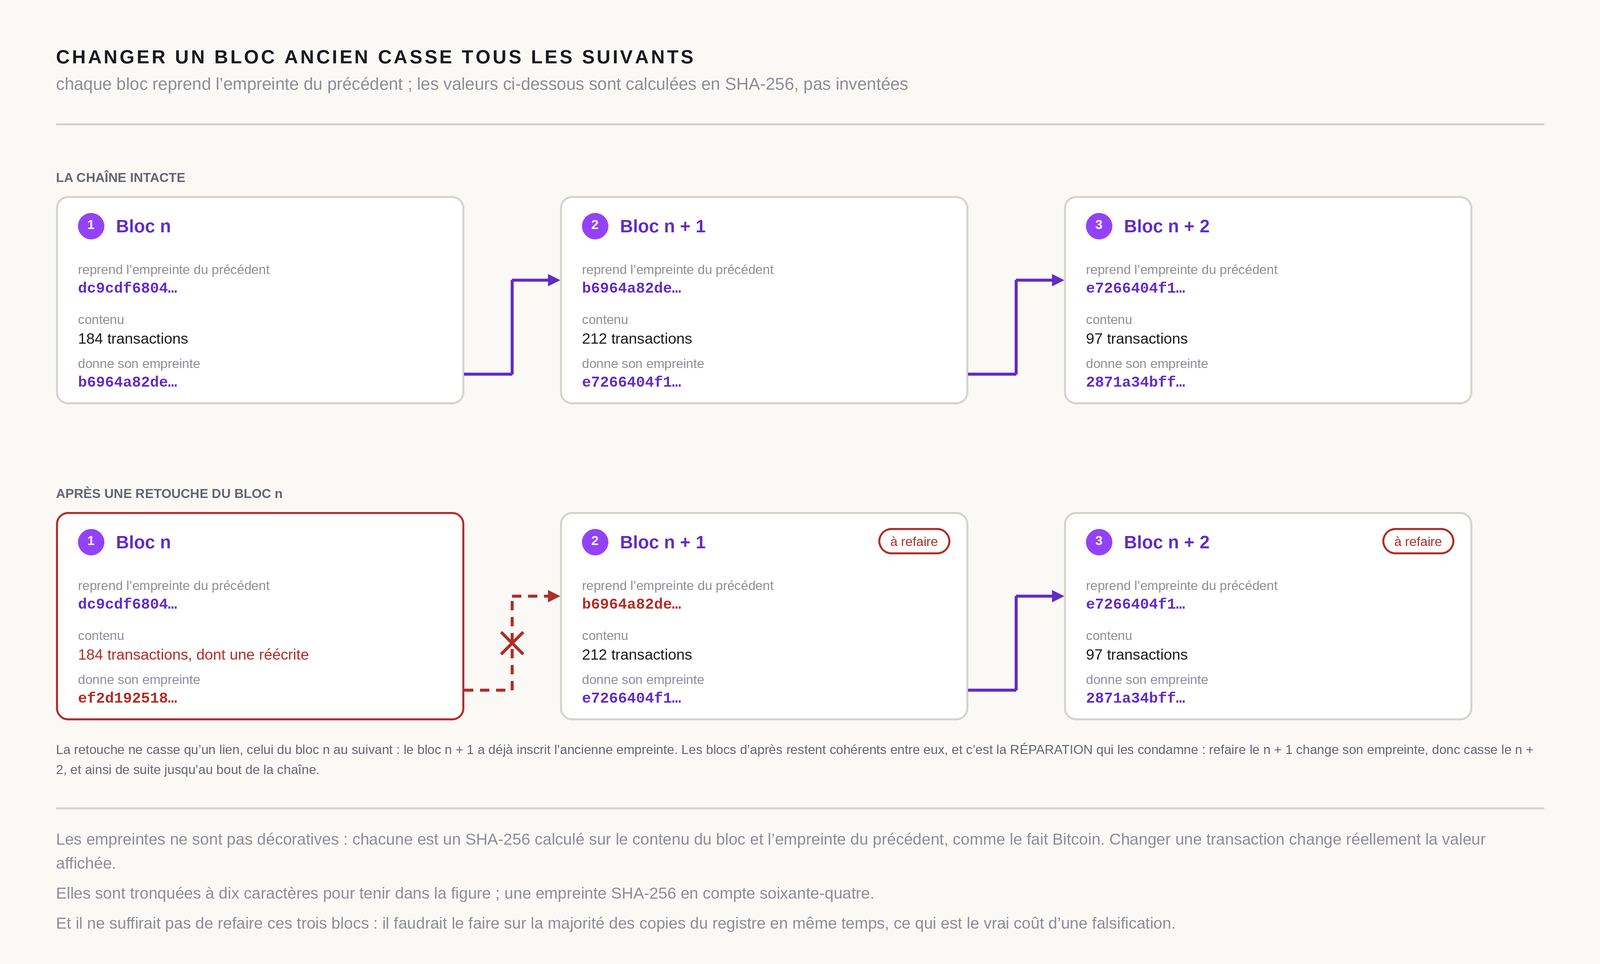
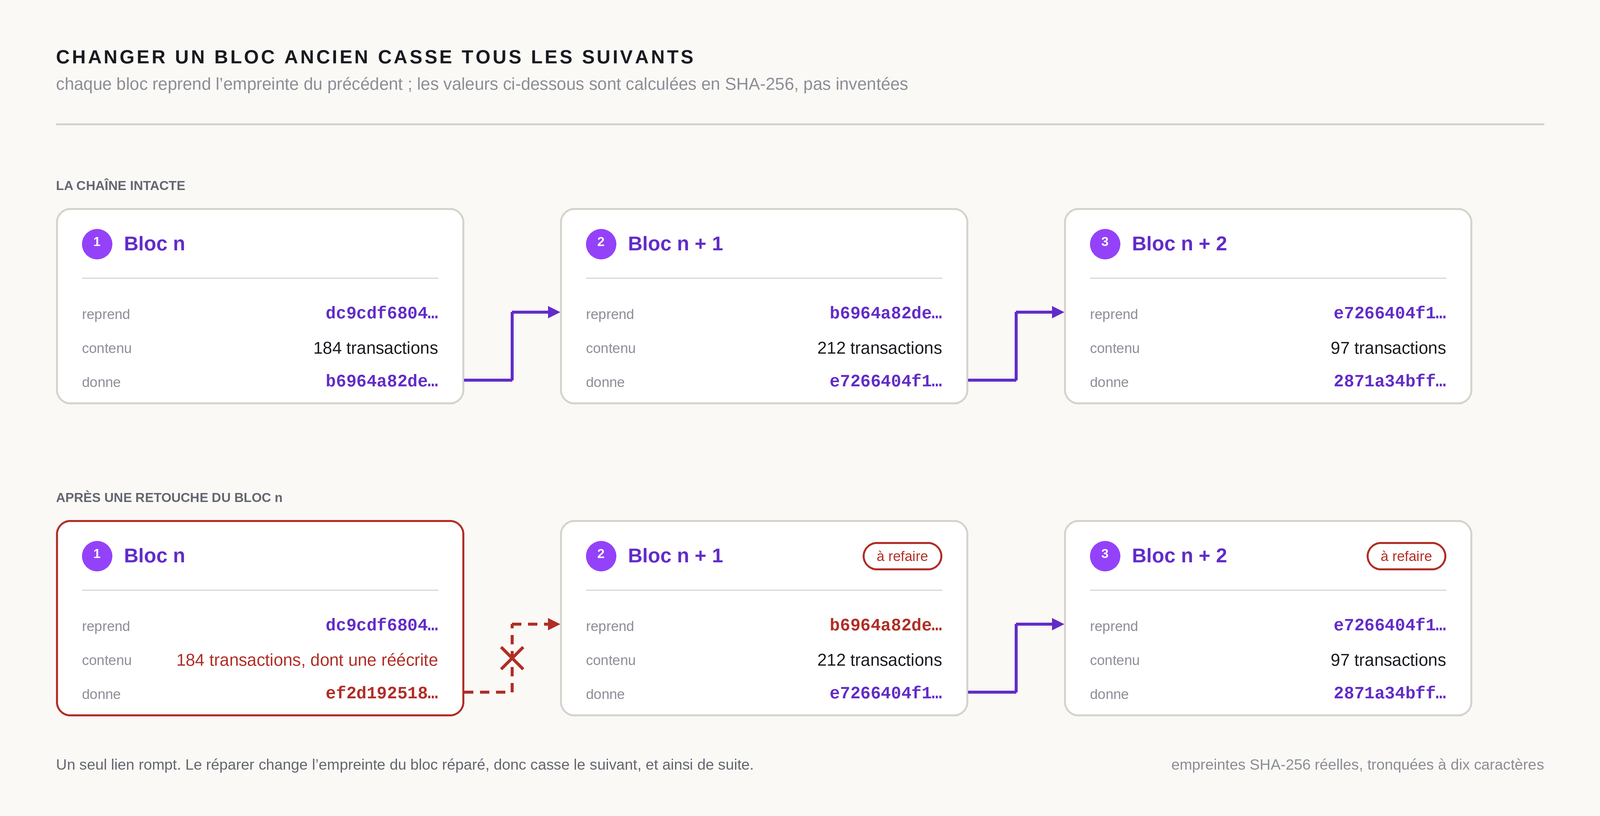
IMAGE 2 : la figure redevient une image
Trop de traits, trop de petit texte sous le visuel. Le client a raison :
je posais mes notes de fabrication sur l'image au lieu de les laisser dans
ce fichier et dans la légende de l'article.

  - un libellé et sa valeur sur la MÊME ligne, à gauche et à droite : trois
    lignes par carte au lieu de six, dont trois qui étaient en petit gris ;
  - les libellés raccourcis à un mot, « reprend », « contenu », « donne » ;
  - la note de quatre lignes et les trois paragraphes de pied remplacés par
    une seule ligne, plus la mention de provenance des empreintes alignée à
    droite ;
  - corps remontés : blocs à 20, valeurs à 17, contenus à 17.

De 964 à 816 pixels de haut, et de 102 à 70 Ko. La carte se lit d'un coup
d'oeil au lieu de se lire comme un paragraphe encadré.

Claude-Session: https://claude.ai/code/session_015un2t2xRvThoKm9jAu6CXK

diff --git a/article-bitcoin/chaine_blocs.py b/article-bitcoin/chaine_blocs.py
@@ -78,15 +78,15 @@ POLICES = {
     "titre": (C.POLICE_G, 19, "bold"),
     "sous": (C.POLICE_R, 17, "normal"),
     "rangee": (C.POLICE_G, 13, "bold"),
-    "bloc": (C.POLICE_G, 18, "bold"),
-    "champ": (C.POLICE_R, 13, "normal"),
+    "bloc": (C.POLICE_G, 20, "bold"),
+    "champ": (C.POLICE_R, 14, "normal"),
     "valeur": (C.POLICE_G, 15, "bold"),
-    "contenu": (C.POLICE_R, 15, "normal"),
-    "note": (C.POLICE_R, 13, "normal"),
+    "contenu": (C.POLICE_R, 17, "normal"),
+    "note": (C.POLICE_R, 15, "normal"),
     "pied": (C.POLICE_R, 16, "normal"),
 }
 MONO = "/usr/share/fonts/truetype/liberation/LiberationMono-Bold.ttf"
-POLICES["valeur"] = (MONO, 15, "bold")
+POLICES["valeur"] = (MONO, 17, "bold")
 FAMILLE_SVG = "Liberation Sans, Arial, Helvetica, sans-serif"
 FAMILLE_MONO = "Liberation Mono, Consolas, monospace"
 
@@ -96,8 +96,8 @@ SOUS = ("chaque bloc reprend l’empreinte du précédent ; les valeurs "
 
 LARGEUR_BLOC = 408
 ECART = 96
-Y_RANGEE = (196, 512)
-HAUTEUR_BLOC = 208
+Y_RANGEE = (208, 520)
+HAUTEUR_BLOC = 196
 
 
 def empreinte(precedent, contenu):
@@ -148,12 +148,14 @@ def polygone(couche, points, teinte):
     return {"quoi": "polygone", "couche": couche, "pts": points, "t": teinte}
 
 
-def texte(couche, xy, contenu, police, teinte, tracking=0.0, centre=False):
+def texte(couche, xy, contenu, police, teinte, tracking=0.0, centre=False,
+          droite=False):
     for c, nom in (("—", "cadratin"), ("–", "demi-cadratin")):
         if c in contenu:
             raise SystemExit("%s dans « %s »" % (nom, contenu[:60]))
     return {"quoi": "texte", "couche": couche, "xy": xy, "c": contenu,
-            "p": police, "t": teinte, "tr": tracking, "centre": centre}
+            "p": police, "t": teinte, "tr": tracking, "centre": centre,
+            "droite": droite}
 
 
 def fleche(couche, depart, arrivee, teinte, casse=False):
@@ -252,112 +254,85 @@ def composer():
     cartes, liens, textes_ = [], [], []
     for r in rangees:
         y = r["y"]
-        textes_.append(texte("rangées", (MARGE, y - 26), r["nom"], "rangee",
+        textes_.append(texte("rangées", (MARGE, y - 30), r["nom"], "rangee",
                              D.GRIS))
         for i, b in enumerate(BLOCS):
             x0 = MARGE + i * (LARGEUR_BLOC + ECART)
             x1 = x0 + LARGEUR_BLOC
-            #  Trois états : intact, retouché, à refaire. Le troisième
-            #  n'est pas cassé, il est condamné par la réparation du
-            #  premier, et la nuance est tout le propos.
             retouche = r["casse"] and i == CIBLE
             a_refaire = r["casse"] and i > CIBLE
-            bord = ALERTE if retouche else D.FILET
+            lien_rompu = r["casse"] and i == CIBLE + 1
 
-            cartes.append(rect("blocs", [x0, y, x1, y + HAUTEUR_BLOC], 12,
+            cartes.append(rect("blocs", [x0, y, x1, y + HAUTEUR_BLOC], 14,
                                D.BLANC))
-            cartes.append(cadre("blocs", [x0, y, x1, y + HAUTEUR_BLOC], 12,
-                                bord, 2))
-            if a_refaire:
-                etiquette = "à refaire"
-                largeur_e = mesure.mesure(etiquette, fontes["champ"]) + 24
-                cartes.append(cadre("blocs", [x1 - largeur_e - 18, y + 16,
-                                              x1 - 18, y + 42], 13,
-                                    ALERTE, 2))
-                textes_.append(texte("blocs",
-                                     (x1 - largeur_e / 2.0 - 18, y + 22),
-                                     etiquette, "champ", ALERTE, centre=True))
+            cartes.append(cadre("blocs", [x0, y, x1, y + HAUTEUR_BLOC], 14,
+                                ALERTE if retouche else D.FILET, 2))
 
-            g = x0 + 22
-            textes_.append(disque("blocs", g + 13, y + 30, 13, INDIGO_APLAT))
-            textes_.append(texte("blocs", (g + 13, y + 21), str(i + 1),
+            g, d = x0 + 26, x1 - 26
+            textes_.append(disque("blocs", g + 15, y + 36, 15, INDIGO_APLAT))
+            textes_.append(texte("blocs", (g + 15, y + 26), str(i + 1),
                                  "rangee", D.BLANC, centre=True))
-            textes_.append(texte("blocs", (g + 38, y + 20), b["nom"], "bloc",
+            textes_.append(texte("blocs", (g + 42, y + 24), b["nom"], "bloc",
                                  INDIGO))
+            if a_refaire:
+                mot = "à refaire"
+                large = mesure.mesure(mot, fontes["champ"]) + 28
+                cartes.append(cadre("blocs", [d - large, y + 22, d, y + 50],
+                                    14, ALERTE, 2))
+                textes_.append(texte("blocs", (d - large / 2.0, y + 28), mot,
+                                     "champ", ALERTE, centre=True))
+
+            cartes.append(trait("blocs", [g, y + 70, d, y + 70], D.FILET, 1))
 
             reprend, produite = r["suite"][i]
-            #  Seul le bloc juste après la retouche porte une empreinte
-            #  reprise qui ne correspond plus.
-            lien_rompu = r["casse"] and i == CIBLE + 1
-            champs = (
-                ("reprend l’empreinte du précédent", court(reprend),
-                 ALERTE if lien_rompu else INDIGO, y + 66),
-                ("contenu", r["contenus"][i],
-                 ALERTE if (r["casse"] and i == CIBLE) else D.ENCRE, y + 116),
-                ("donne son empreinte", court(produite),
-                 ALERTE if (r["casse"] and i == CIBLE) else INDIGO, y + 160),
-            )
-            for libelle, valeur, teinte, yy in champs:
-                textes_.append(texte("blocs", (g, yy), D.typo(libelle),
-                                     "champ", D.FAIBLE))
-                police = "contenu" if libelle == "contenu" else "valeur"
-                textes_.append(texte("blocs", (g, yy + 18), D.typo(valeur),
-                                     police, teinte))
+            #  UNE LIGNE PAR CHAMP, LIBELLÉ À GAUCHE ET VALEUR À DROITE.
+            #
+            #  Le premier jet posait le libellé au-dessus de la valeur :
+            #  six lignes de texte par carte, dont trois en petit gris. Sur
+            #  la même ligne, c'est trois, et la carte redevient un objet
+            #  qu'on lit d'un coup d'oeil au lieu d'un paragraphe encadré.
+            champs = (("reprend", court(reprend),
+                       ALERTE if lien_rompu else INDIGO, "valeur", y + 96),
+                      ("contenu", r["contenus"][i],
+                       ALERTE if retouche else D.ENCRE, "contenu", y + 130),
+                      ("donne", court(produite),
+                       ALERTE if retouche else INDIGO, "valeur", y + 164))
+            for libelle, valeur, teinte, police, yy in champs:
+                textes_.append(texte("blocs", (g, yy + 2), libelle, "champ",
+                                     D.FAIBLE))
+                large = mesure.mesure(D.typo(valeur), fontes[police])
+                if g + mesure.mesure(libelle, fontes["champ"]) + 16 > d - large:
+                    raise SystemExit("le champ « %s » déborde dans %s"
+                                     % (libelle, b["nom"]))
+                textes_.append(texte("blocs", (d - large, yy),
+                                     D.typo(valeur), police, teinte))
 
             if i + 1 < len(BLOCS):
                 rompu = r["casse"] and i == CIBLE
-                #  Le trait part du BORD de la carte, pas de son intérieur :
-                #  vingt pixels de moignon sous le champ donnaient
-                #  l'impression d'un trait mal effacé.
-                liens.extend(fleche("liens", (x1, y + 178),
-                                    (x1 + ECART, y + 84),
+                liens.extend(fleche("liens", (x1, y + 172),
+                                    (x1 + ECART, y + 104),
                                     ALERTE if rompu else INDIGO, rompu))
 
     o.extend(cartes)
     o.extend(liens)
     o.extend(textes_)
 
-    #  Une note sous la seconde rangée, qui dit ce que les croix veulent dire.
-    y_note = Y_RANGEE[1] + HAUTEUR_BLOC + 22
-    note = ("La retouche ne casse qu’un lien, celui du bloc n au suivant : "
-            "le bloc n + 1 a déjà inscrit l’ancienne empreinte. Les blocs "
-            "d’après restent cohérents entre eux, et c’est la RÉPARATION "
-            "qui les condamne : refaire le n + 1 change son empreinte, donc "
-            "casse le n + 2, et ainsi de suite jusqu’au bout de la chaîne.")
-    lignes = mesure.couper(D.typo(note), fontes["note"], L - 2 * MARGE)
-    for i, ligne in enumerate(lignes):
-        #  La note explique, elle n'alerte pas : deux lignes entières en
-        #  rouge seraient de la couleur décorative, ce que la charte
-        #  interdit précisément pour cette teinte.
-        o.append(texte("rangées", (MARGE, y_note + i * 20), ligne, "note",
-                       D.GRIS))
+    #  UNE SEULE LIGNE SOUS LA FIGURE, PAS UN PIED DE PAGE.
+    #
+    #  Le premier jet portait une note de quatre lignes plus trois
+    #  paragraphes de pied : mes notes de fabrication posées sur le visuel.
+    #  Elles ont leur place dans ce fichier et dans la légende de l'article,
+    #  pas dans l'image, qui doit rester une image.
+    y_note = Y_RANGEE[1] + HAUTEUR_BLOC + 40
+    o.append(texte("rangées", (MARGE, y_note),
+                   D.typo("Un seul lien rompt. Le réparer change l’empreinte "
+                          "du bloc réparé, donc casse le suivant, et ainsi "
+                          "de suite."), "note", D.GRIS))
+    o.append(texte("rangées", (L - MARGE, y_note),
+                   "empreintes SHA-256 réelles, tronquées à dix caractères",
+                   "note", D.FAIBLE, droite=True))
 
-    # --------------------------------------------------------------  pied
-    pied = (
-        "Les empreintes ne sont pas décoratives : chacune est un SHA-256 "
-        "calculé sur le contenu du bloc et l’empreinte du précédent, comme "
-        "le fait Bitcoin. Changer une transaction change réellement la "
-        "valeur affichée.",
-        "Elles sont tronquées à dix caractères pour tenir dans la figure ; "
-        "une empreinte SHA-256 en compte soixante-quatre.",
-        "Et il ne suffirait pas de refaire ces trois blocs : il faudrait le "
-        "faire sur la majorité des copies du registre en même temps, ce qui "
-        "est le vrai coût d’une falsification.",
-    )
-    y_pied = y_note + len(lignes) * 20 + 26
-    o.append(trait("pied", [MARGE, y_pied, L - MARGE, y_pied], D.FILET, 2))
-    y_texte = y_pied + 22
-    for i, ligne in enumerate(pied):
-        lignes = mesure.couper(D.typo(ligne), fontes["pied"], L - 2 * MARGE)
-        if len(lignes) > 2:
-            raise SystemExit("la ligne %d du pied tient en %d lignes"
-                             % (i + 1, len(lignes)))
-        for coupee in lignes:
-            o.append(texte("pied", (MARGE, y_texte), coupee, "pied",
-                           D.FAIBLE))
-            y_texte += 24
-        y_texte += 6
-
+    y_texte = y_note + 40
     H = int(y_texte + 20)
     o.insert(0, rect("fond", [0, 0, L, H], 0, D.PAPIER))
     return H, o, (intacte, cassee)
@@ -386,6 +361,8 @@ def rendre_matriciel(H, ordres, base):
             x, y = a["xy"]
             if a["centre"]:
                 x -= t.mesure(a["c"], f) / 2.0
+            elif a["droite"]:
+                x -= t.mesure(a["c"], f)
             if a["tr"]:
                 t.espace((x, y), a["c"], f, a["t"], a["tr"])
             else:
@@ -450,7 +427,8 @@ def rendre_svg(H, ordres, base):
                 famille = FAMILLE_MONO if "Mono" in chemin else FAMILLE_SVG
                 espacement = (' letter-spacing="%g"' % a["tr"]
                               if a["tr"] else "")
-                ancre = ' text-anchor="middle"' if a["centre"] else ""
+                ancre = (' text-anchor="middle"' if a["centre"]
+                         else ' text-anchor="end"' if a["droite"] else "")
                 out.append('    <text x="%g" y="%g" font-family="%s" '
                            'font-size="%g" font-weight="%s" fill="%s"%s%s'
                            ' xml:space="preserve">%s</text>'
